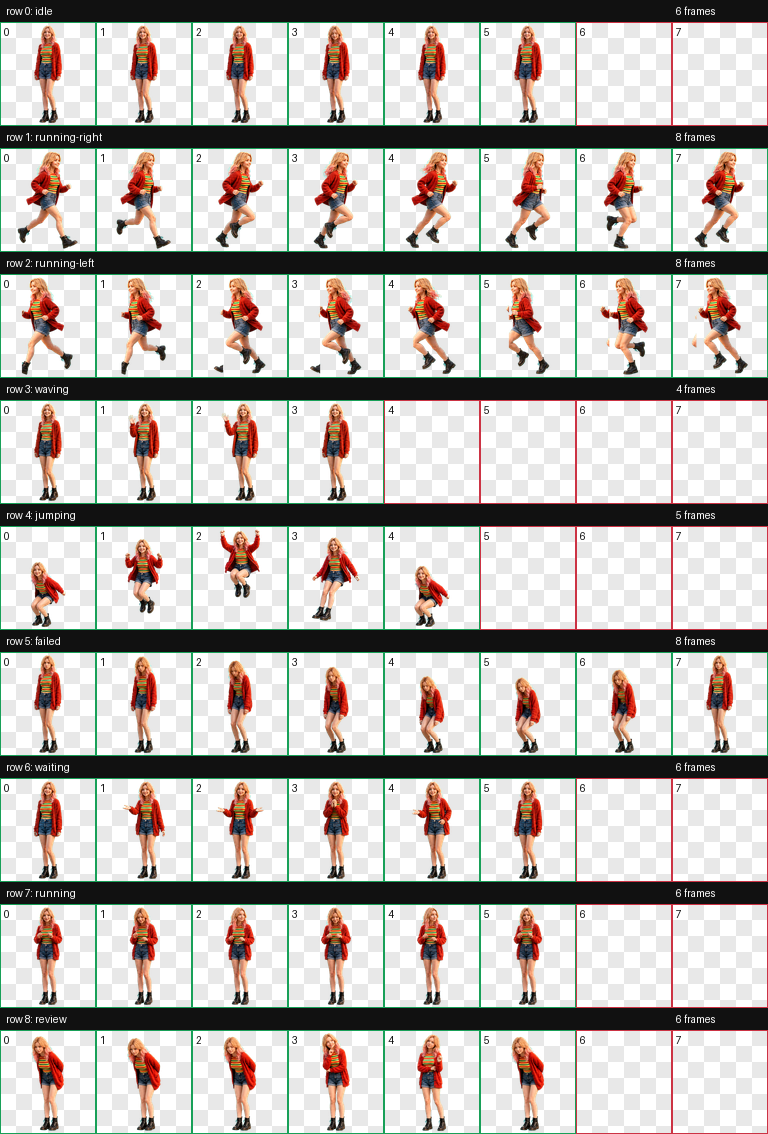
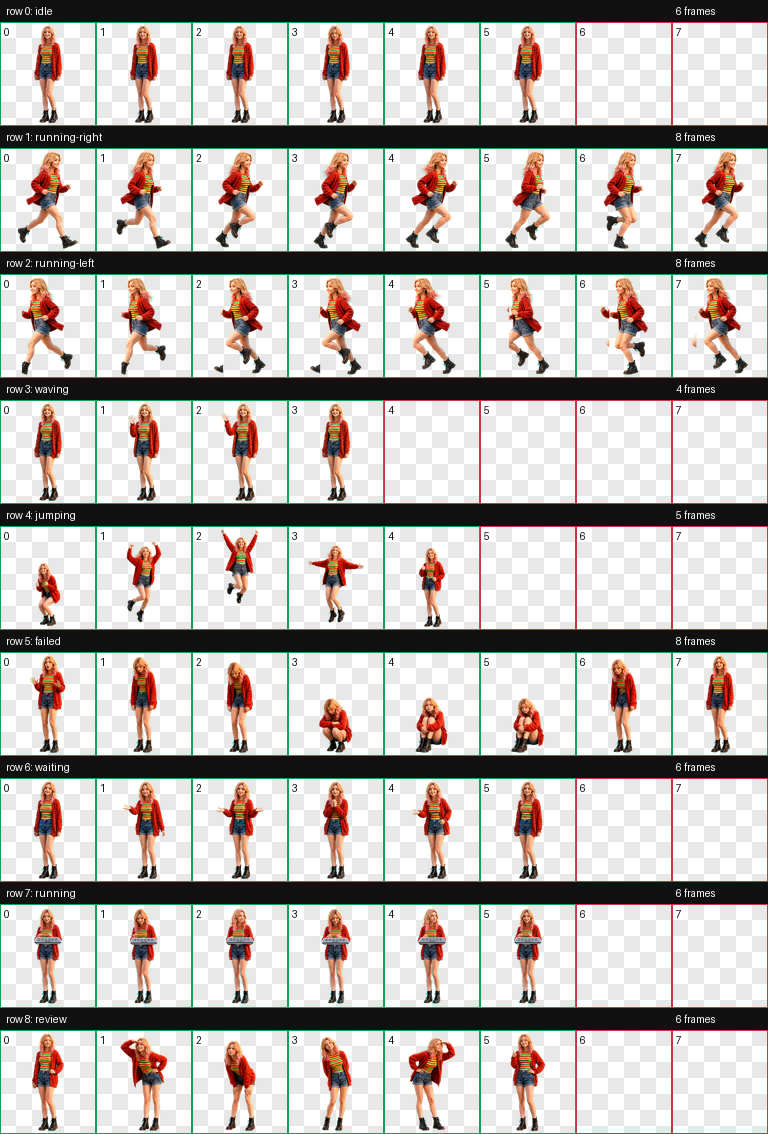
Enhance Codex Gwen actions

diff --git a/source/tools/enhance_working_frames.py b/source/tools/enhance_working_frames.py
@@ -1,0 +1,123 @@
+"""Add a compact, readable portable keyboard to Codex work-state frames."""
+
+from __future__ import annotations
+
+import argparse
+from pathlib import Path
+
+from PIL import Image, ImageDraw
+
+
+FRAME_SIZE = (192, 208)
+FRAME_COUNT = 6
+SUPERSAMPLE = 4
+CYAN = (0, 255, 255, 255)
+
+# Small per-frame shifts keep the device connected to the existing hand motion.
+DEVICE_OFFSETS = ((0, 0), (1, 1), (0, 0), (-1, 1), (1, 0), (0, 0))
+
+
+def scaled_point(x: int, y: int) -> tuple[int, int]:
+    return x * SUPERSAMPLE, y * SUPERSAMPLE
+
+
+def scaled_box(
+    left: int, top: int, right: int, bottom: int
+) -> tuple[int, int, int, int]:
+    return (
+        left * SUPERSAMPLE,
+        top * SUPERSAMPLE,
+        right * SUPERSAMPLE,
+        bottom * SUPERSAMPLE,
+    )
+
+
+def make_keyboard(frame_index: int) -> Image.Image:
+    overlay = Image.new("RGBA", tuple(value * SUPERSAMPLE for value in FRAME_SIZE))
+    draw = ImageDraw.Draw(overlay, "RGBA")
+    dx, dy = DEVICE_OFFSETS[frame_index]
+
+    top = [
+        scaled_point(72 + dx, 66 + dy),
+        scaled_point(119 + dx, 66 + dy),
+        scaled_point(124 + dx, 75 + dy),
+        scaled_point(67 + dx, 75 + dy),
+    ]
+    front = [
+        scaled_point(67 + dx, 75 + dy),
+        scaled_point(124 + dx, 75 + dy),
+        scaled_point(120 + dx, 79 + dy),
+        scaled_point(71 + dx, 79 + dy),
+    ]
+
+    draw.polygon(top, fill=(160, 169, 181, 255), outline=(43, 48, 57, 255))
+    draw.line(
+        top + [top[0]],
+        fill=(225, 231, 238, 255),
+        width=SUPERSAMPLE,
+        joint="curve",
+    )
+    draw.polygon(front, fill=(67, 73, 84, 255), outline=(31, 35, 42, 255))
+
+    # Blank physical keys only: no text, logos, code, or screen UI.
+    for row in range(2):
+        y = 68 + dy + row * 3
+        for column in range(6):
+            x = 75 + dx + column * 7
+            draw.rounded_rectangle(
+                scaled_box(x, y, x + 5, y + 1),
+                radius=SUPERSAMPLE,
+                fill=(72, 78, 89, 245),
+            )
+
+    draw.rounded_rectangle(
+        scaled_box(89 + dx, 73 + dy, 103 + dx, 75 + dy),
+        radius=SUPERSAMPLE,
+        fill=(113, 122, 135, 255),
+    )
+    draw.line(
+        [scaled_point(72 + dx, 78 + dy), scaled_point(119 + dx, 78 + dy)],
+        fill=(204, 211, 220, 210),
+        width=SUPERSAMPLE,
+    )
+
+    return overlay.resize(FRAME_SIZE, Image.Resampling.LANCZOS)
+
+
+def enhance_frame(source: Path, destination: Path, frame_index: int) -> None:
+    with Image.open(source) as image:
+        frame = image.convert("RGBA")
+    if frame.size != FRAME_SIZE:
+        raise ValueError(f"{source} is {frame.size}; expected {FRAME_SIZE}.")
+    frame.alpha_composite(make_keyboard(frame_index))
+    destination.parent.mkdir(parents=True, exist_ok=True)
+    frame.save(destination)
+
+
+def build_strip(frames_dir: Path, destination: Path) -> None:
+    strip = Image.new("RGBA", (FRAME_SIZE[0] * FRAME_COUNT, FRAME_SIZE[1]), CYAN)
+    for index in range(FRAME_COUNT):
+        with Image.open(frames_dir / f"{index:02d}.png") as image:
+            strip.alpha_composite(image.convert("RGBA"), (FRAME_SIZE[0] * index, 0))
+    destination.parent.mkdir(parents=True, exist_ok=True)
+    strip.convert("RGB").save(destination)
+
+
+def main() -> None:
+    parser = argparse.ArgumentParser()
+    parser.add_argument("--input-dir", type=Path, required=True)
+    parser.add_argument("--output-dir", type=Path, required=True)
+    parser.add_argument("--strip-output", type=Path, required=True)
+    args = parser.parse_args()
+
+    for index in range(FRAME_COUNT):
+        enhance_frame(
+            args.input_dir / f"{index:02d}.png",
+            args.output_dir / f"{index:02d}.png",
+            index,
+        )
+    build_strip(args.output_dir, args.strip_output)
+
+
+if __name__ == "__main__":
+    main()

diff --git a/source/prompts/rows/running.md b/source/prompts/rows/running.md
@@ -8,10 +8,11 @@ Identity: same pet in every frame: Preserve the approved young adult character i
 Style: Pet-safe sprite: compact full-body mascot, readable in a 192x208 cell, clear silhouette, simple face, stable palette/materials, and crisp edges for chroma-key extraction. Style `3d-toy`: Stylized 3D toy mascot with smooth rounded forms, simple materials, clear silhouette, and no photoreal complexity. User style notes: Ultra-clean high-definition stylized 3D game-avatar render with realistic facial likeness and premium materials, slightly enlarged head and compact proportions for 192x208 readability, soft natural skin and detailed hair, clearly non-pixel art..
 Animation continuity: keep apparent pet scale and baseline stable within the row unless the state itself intentionally changes vertical position, such as `jumping`. Move the pose within the slot instead of redrawing the pet larger or smaller frame to frame.
 
-State action: Working loop: focused active-task processing, thinking, typing, scanning, or effortful concentration; not literal foot-running, jogging, sprinting, treadmill motion, raised knees, long steps, pumping arms, or directional travel.
+State action: Clear coding/work loop: focused typing and scanning on one compact silver-gray portable keyboard or terminal held at waist height; not literal foot-running, jogging, sprinting, treadmill motion, raised knees, long steps, pumping arms, or directional travel.
 
 State requirements:
-- Show the pet actively working or processing, as if running a task: focused posture, busy hands or paws, purposeful bobbing, thinking motion, tool or prop motion only if already part of the pet identity, or other non-locomotion activity.
+- Show focused posture, busy hands, small gaze/head changes, purposeful bobbing, and a consistent portable keyboard/terminal so the working state is unmistakable at pet size.
+- The device must remain consistent across all six frames, have no logo, code, text, symbols, or visible UI, and must not cover the face.
 - Do not show literal foot-running, jogging, sprinting, treadmill motion, raised knees, long steps, pumping arms, directional travel, speed lines, dust clouds, floor shadows, motion trails, or detached motion effects.
 
 Clean extraction: crisp opaque edges, safe padding, no scenery, text, guide marks, checkerboard, shadows, glows, motion blur, speed lines, dust, detached effects, stray pixels, or chroma-key colors inside the pet.

diff --git a/source/prompts/rows/failed.md b/source/prompts/rows/failed.md
@@ -8,11 +8,11 @@ Identity: same pet in every frame: Preserve the approved young adult character i
 Style: Pet-safe sprite: compact full-body mascot, readable in a 192x208 cell, clear silhouette, simple face, stable palette/materials, and crisp edges for chroma-key extraction. Style `3d-toy`: Stylized 3D toy mascot with smooth rounded forms, simple materials, clear silhouette, and no photoreal complexity. User style notes: Ultra-clean high-definition stylized 3D game-avatar render with realistic facial likeness and premium materials, slightly enlarged head and compact proportions for 192x208 readability, soft natural skin and detailed hair, clearly non-pixel art..
 Animation continuity: keep apparent pet scale and baseline stable within the row unless the state itself intentionally changes vertical position, such as `jumping`. Move the pose within the slot instead of redrawing the pet larger or smaller frame to frame.
 
-State action: Blocked/failed loop: slumped or deflated reaction with sad or closed eyes.
+State action: Strong error/failed loop matching the desktop pet: startled, shoulders droop, head lowers, crouches, hugs knees with a pout, closes eyes in frustration, rises, and recovers.
 
 State requirements:
-- Show failure through slumped pose, drooping ears/limbs, closed or sad eyes, and lower body position.
-- Tears, small smoke puffs, or tiny stars are allowed only if attached to or overlapping the pet silhouette and kept inside the same frame slot.
-- Do not draw red X marks, floating symbols, detached stars, separated smoke clouds, falling tear drops, dust, or other loose effects.
+- Use all eight frames for a continuous startled-to-hugging-knees-to-recovery sequence.
+- Keep the crouched and seated poses fully inside their slots with a stable apparent character scale.
+- Do not draw tears, red X marks, floating symbols, stars, smoke clouds, dust, or other loose effects.
 
 Clean extraction: crisp opaque edges, safe padding, no scenery, text, guide marks, checkerboard, shadows, glows, motion blur, speed lines, dust, detached effects, stray pixels, or chroma-key colors inside the pet.

diff --git a/source/prompts/rows/review.md b/source/prompts/rows/review.md
@@ -8,10 +8,10 @@ Identity: same pet in every frame: Preserve the approved young adult character i
 Style: Pet-safe sprite: compact full-body mascot, readable in a 192x208 cell, clear silhouette, simple face, stable palette/materials, and crisp edges for chroma-key extraction. Style `3d-toy`: Stylized 3D toy mascot with smooth rounded forms, simple materials, clear silhouette, and no photoreal complexity. User style notes: Ultra-clean high-definition stylized 3D game-avatar render with realistic facial likeness and premium materials, slightly enlarged head and compact proportions for 192x208 readability, soft natural skin and detailed hair, clearly non-pixel art..
 Animation continuity: keep apparent pet scale and baseline stable within the row unless the state itself intentionally changes vertical position, such as `jumping`. Move the pose within the slot instead of redrawing the pet larger or smaller frame to frame.
 
-State action: Ready-review loop: focused inspection of completed output with lean, blink, narrowed eyes, head tilt, or paw pose.
+State action: Peeking review loop matching the desktop pet: neutral inspection, strong left lean with a hand shading the eyes, close narrowed-eye check, head tilt, strong right lean, and a playful confirmation pose.
 
 State requirements:
-- Show review through lean, blink, narrowed eyes, head tilt, or paw/hand position.
-- Do not add magnifying glasses, papers, code, UI, punctuation, symbols, or other new props unless they already exist in the base pet identity.
+- Make the left/right peeking and inspection gestures visibly different, while keeping every frame full-body and uncropped.
+- Do not add magnifying glasses, panels, papers, code, UI, punctuation, symbols, or other new props.
 
 Clean extraction: crisp opaque edges, safe padding, no scenery, text, guide marks, checkerboard, shadows, glows, motion blur, speed lines, dust, detached effects, stray pixels, or chroma-key colors inside the pet.

diff --git a/source/prompts/rows/jumping.md b/source/prompts/rows/jumping.md
@@ -8,10 +8,11 @@ Identity: same pet in every frame: Preserve the approved young adult character i
 Style: Pet-safe sprite: compact full-body mascot, readable in a 192x208 cell, clear silhouette, simple face, stable palette/materials, and crisp edges for chroma-key extraction. Style `3d-toy`: Stylized 3D toy mascot with smooth rounded forms, simple materials, clear silhouette, and no photoreal complexity. User style notes: Ultra-clean high-definition stylized 3D game-avatar render with realistic facial likeness and premium materials, slightly enlarged head and compact proportions for 192x208 readability, soft natural skin and detailed hair, clearly non-pixel art..
 Animation continuity: keep apparent pet scale and baseline stable within the row unless the state itself intentionally changes vertical position, such as `jumping`. Move the pose within the slot instead of redrawing the pet larger or smaller frame to frame.
 
-State action: Hover jump loop: anticipation, lift, airborne peak, descent, and settle through body height.
+State action: Success-celebration jump loop: crouched anticipation, lift with rising arms, airborne peak with both fists overhead and a joyful smile, descent with open arms, and an upright victory landing.
 
 State requirements:
-- Show the jump through pose and vertical body position only: anticipation, lift, airborne peak, descent, settle.
+- Use the five frames as: crouched anticipation, lift-off, highest both-arms-up celebration, descent, and cheerful landed victory pose.
+- Make the success emotion and vertical jump trajectory readable at 192x208 without adding detached effects.
 - Do not draw ground shadows, contact shadows, drop shadows, oval shadows, landing marks, dust, smears, bounce pads, or motion marks under the pet.
 - Keep the background outside the pet perfectly flat chroma key with no darker key-colored patches.
 

diff --git a/README.md b/README.md
@@ -1,6 +1,6 @@
 # Codex 宠物：格温
 
-一个可安装到 Codex 桌面应用的高清 3D 格温风格甜妹宠物包。仓库同时保留成品宠物、动作预览、主要参考图和生成提示词，方便换电脑后直接恢复或继续迭代。
+一个可安装到 Codex 桌面应用的高清 3D 格温风格甜妹宠物包。动作增强版将桌面宠物的六个核心动作完整映射到 Codex 的九行固定动画槽，并保留成品宠物、动作预览、主要参考图和生成提示词，方便换电脑后直接恢复或继续迭代。
 
 ![Codex 格温动作预览](preview/contact-sheet.png)
 
@@ -42,6 +42,20 @@ powershell -ExecutionPolicy Bypass -File .\scripts\uninstall.ps1
 - 单格：`192 × 208`。
 - 九行动作：待机、向右跑、向左跑、挥手、跳跃、失败、等待、工作、审阅。
 - 每行有效帧数依次为：6、8、8、4、5、8、6、6、6；剩余槽位用于补齐固定网格。
+- 总计 57 个有效动画帧。
+
+### 与桌面版动作对应
+
+| 桌面宠物动作 | Codex 固定状态 | 动作增强版表现 |
+| --- | --- | --- |
+| 待机 | `idle` | 呼吸、眨眼和轻微重心变化 |
+| 散步 | `running-right` / `running-left` | 左右方向的完整移动循环 |
+| 敲代码 | `running` | 手持银灰色便携键盘持续工作 |
+| 探头观察 | `review` | 左右探头、眯眼和歪头检查 |
+| 庆祝成功 | `jumping` | 蹲下、腾空双手庆祝和落地 |
+| 发现错误 | `failed` | 受惊、低头、抱膝沮丧和恢复 |
+
+Codex 版还额外保留 `waving`（问候）和 `waiting`（等待用户输入）两个状态。Codex 宠物格式的状态行由应用固定，不能通过增加第十行来创建新的触发状态，因此增强版把桌面动作放进最匹配的官方状态槽位。
 
 ## 仓库结构
 

diff --git a/source/prompts/row-retries/running.md b/source/prompts/row-retries/running.md
@@ -4,10 +4,11 @@ Use the attached canonical base for identity and the layout guide only for spaci
 
 Keep apparent pet scale and baseline stable within the row unless the state itself intentionally changes vertical position, such as `jumping`.
 
-Action: Working loop: focused active-task processing, thinking, typing, scanning, or effortful concentration; not literal foot-running, jogging, sprinting, treadmill motion, raised knees, long steps, pumping arms, or directional travel.
+Action: Clear coding/work loop: focused typing and scanning on one compact silver-gray portable keyboard or terminal held at waist height; not literal foot-running or directional travel.
 
 State requirements:
-- Show the pet actively working or processing, as if running a task: focused posture, busy hands or paws, purposeful bobbing, thinking motion, tool or prop motion only if already part of the pet identity, or other non-locomotion activity.
+- Show focused posture, busy hands, gaze/head changes, purposeful bobbing, and one consistent portable keyboard/terminal.
+- The device has no logo, code, text, symbols, or visible UI and never covers the face.
 - Do not show literal foot-running, jogging, sprinting, treadmill motion, raised knees, long steps, pumping arms, directional travel, speed lines, dust clouds, floor shadows, motion trails, or detached motion effects.
 
 One centered complete pose per invisible slot. No text, boxes, guide marks, scenery, shadows, glows, motion blur, speed lines, dust, detached effects, stray pixels, or #00FFFF colors in the pet.

diff --git a/source/prompts/row-retries/failed.md b/source/prompts/row-retries/failed.md
@@ -4,11 +4,11 @@ Use the attached canonical base for identity and the layout guide only for spaci
 
 Keep apparent pet scale and baseline stable within the row unless the state itself intentionally changes vertical position, such as `jumping`.
 
-Action: Blocked/failed loop: slumped or deflated reaction with sad or closed eyes.
+Action: Strong error/failed loop: startled, shoulders droop, head lowers, crouches, hugs knees with a pout, closes eyes in frustration, rises, and recovers.
 
 State requirements:
-- Show failure through slumped pose, drooping ears/limbs, closed or sad eyes, and lower body position.
-- Tears, small smoke puffs, or tiny stars are allowed only if attached to or overlapping the pet silhouette and kept inside the same frame slot.
-- Do not draw red X marks, floating symbols, detached stars, separated smoke clouds, falling tear drops, dust, or other loose effects.
+- Use all eight frames for a continuous startled-to-hugging-knees-to-recovery sequence.
+- Keep crouched and seated poses fully inside their slots at a stable apparent scale.
+- Do not draw tears, red X marks, floating symbols, stars, smoke clouds, dust, or other loose effects.
 
 One centered complete pose per invisible slot. No text, boxes, guide marks, scenery, shadows, glows, motion blur, speed lines, dust, detached effects, stray pixels, or #00FFFF colors in the pet.

diff --git a/source/prompts/row-retries/review.md b/source/prompts/row-retries/review.md
@@ -4,10 +4,10 @@ Use the attached canonical base for identity and the layout guide only for spaci
 
 Keep apparent pet scale and baseline stable within the row unless the state itself intentionally changes vertical position, such as `jumping`.
 
-Action: Ready-review loop: focused inspection of completed output with lean, blink, narrowed eyes, head tilt, or paw pose.
+Action: Peeking review loop: neutral inspection, strong left lean with a hand shading the eyes, close narrowed-eye check, head tilt, strong right lean, and playful confirmation.
 
 State requirements:
-- Show review through lean, blink, narrowed eyes, head tilt, or paw/hand position.
-- Do not add magnifying glasses, papers, code, UI, punctuation, symbols, or other new props unless they already exist in the base pet identity.
+- Make the left/right peeking and inspection gestures visibly different while keeping every frame full-body.
+- Do not add magnifying glasses, panels, papers, code, UI, punctuation, symbols, or other new props.
 
 One centered complete pose per invisible slot. No text, boxes, guide marks, scenery, shadows, glows, motion blur, speed lines, dust, detached effects, stray pixels, or #00FFFF colors in the pet.

diff --git a/source/prompts/row-retries/jumping.md b/source/prompts/row-retries/jumping.md
@@ -4,10 +4,11 @@ Use the attached canonical base for identity and the layout guide only for spaci
 
 Keep apparent pet scale and baseline stable within the row unless the state itself intentionally changes vertical position, such as `jumping`.
 
-Action: Hover jump loop: anticipation, lift, airborne peak, descent, and settle through body height.
+Action: Success-celebration jump loop: crouched anticipation, lift with rising arms, airborne peak with both fists overhead and a joyful smile, descent with open arms, and an upright victory landing.
 
 State requirements:
-- Show the jump through pose and vertical body position only: anticipation, lift, airborne peak, descent, settle.
+- Use the five frames as: crouched anticipation, lift-off, highest both-arms-up celebration, descent, and cheerful landed victory pose.
+- Make the success emotion and vertical jump trajectory readable at 192x208 without adding detached effects.
 - Do not draw ground shadows, contact shadows, drop shadows, oval shadows, landing marks, dust, smears, bounce pads, or motion marks under the pet.
 - Keep the background outside the pet perfectly flat chroma key with no darker key-colored patches.
 
